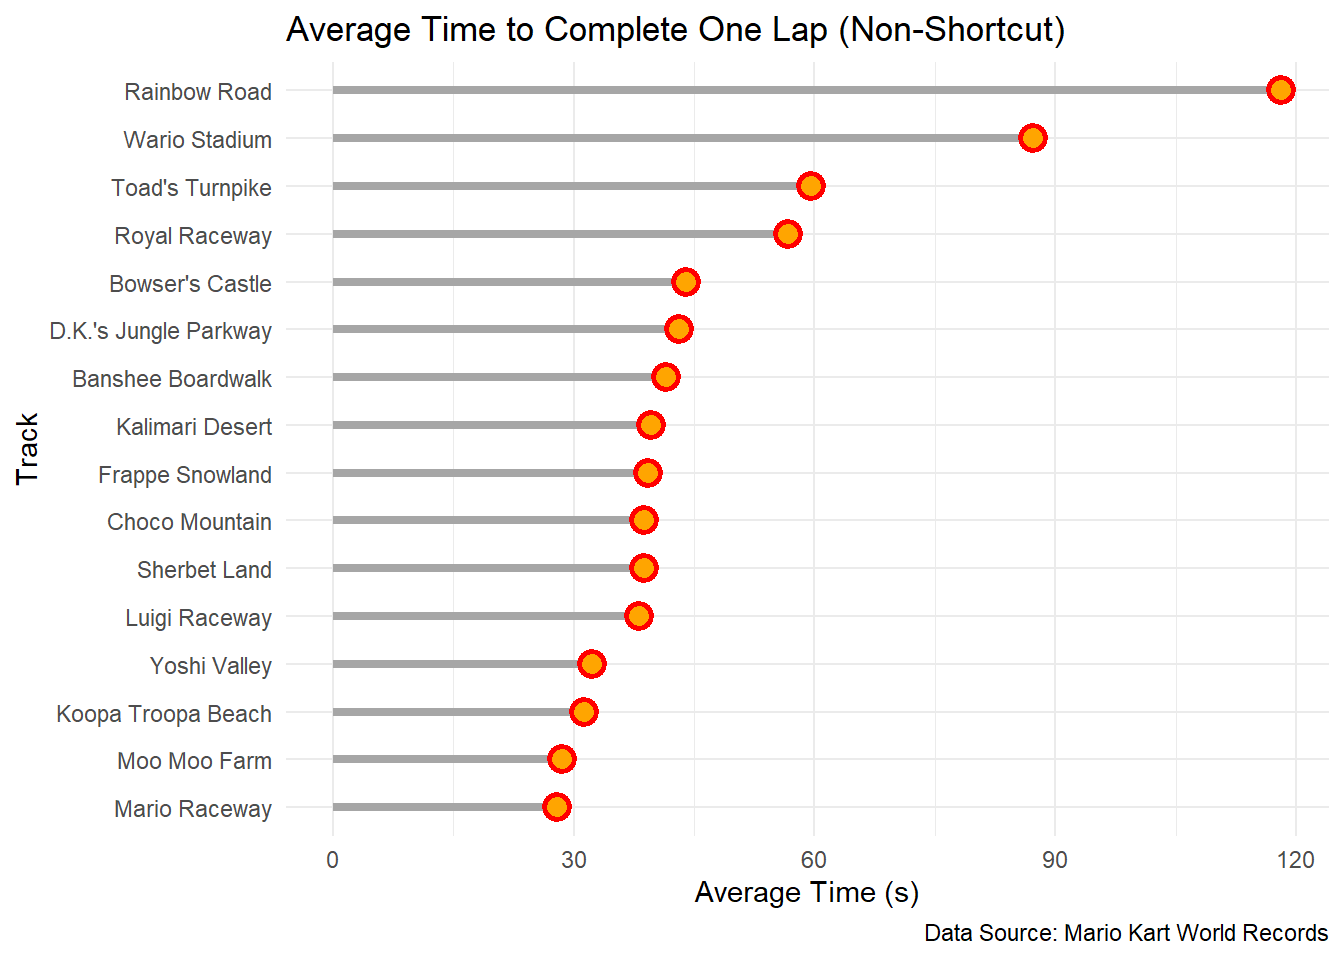
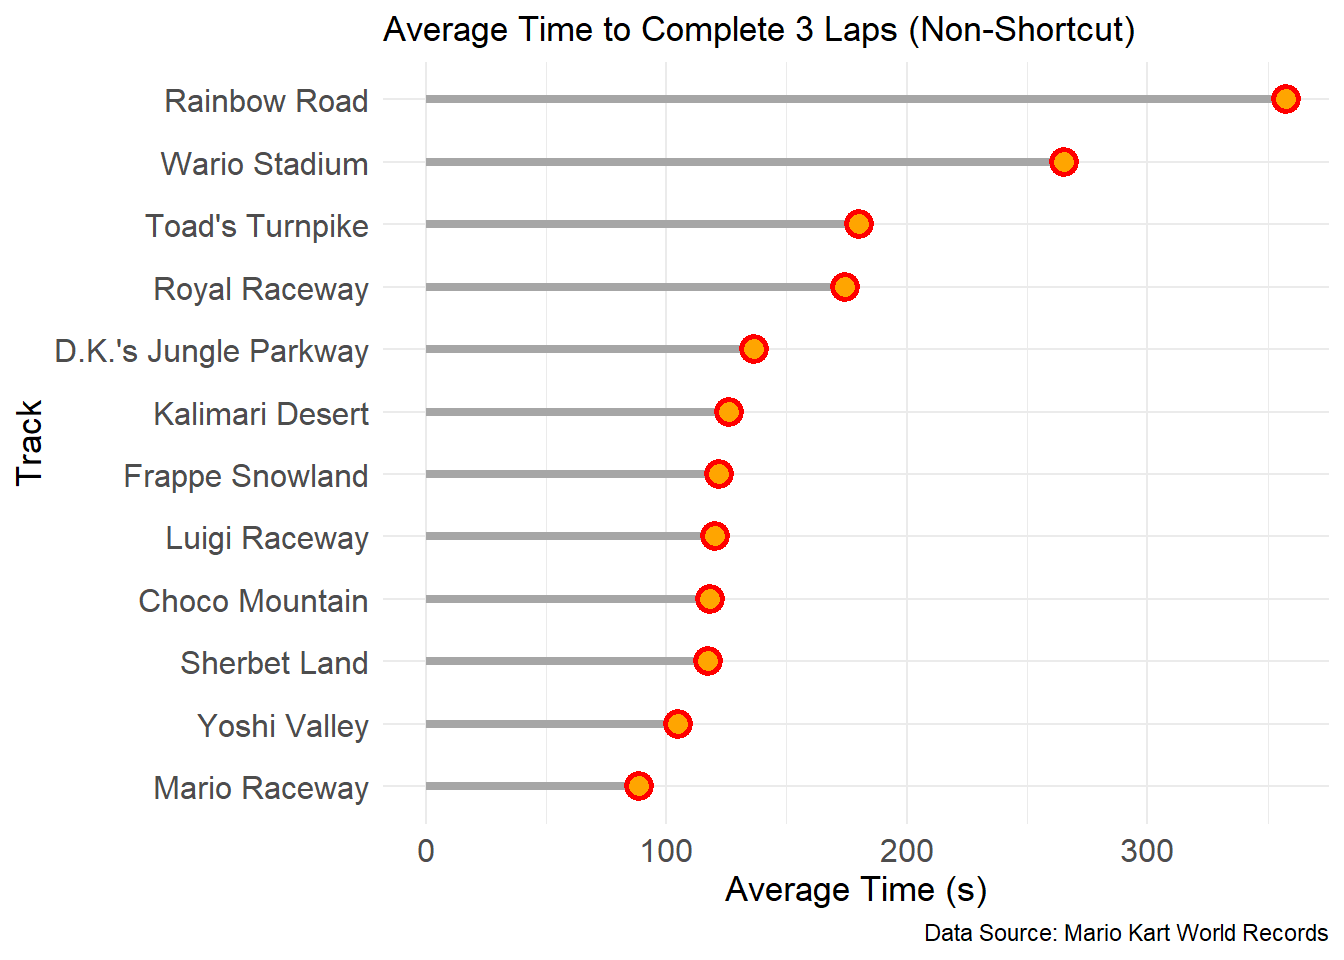
final updates to blog

diff --git a/docs/posts/mario_kart_blog/index.html b/docs/posts/mario_kart_blog/index.html
@@ -22,40 +22,6 @@ ul.task-list li input[type="checkbox"] {
   margin: 0 0.8em 0.2em -1em; /* quarto-specific, see https://github.com/quarto-dev/quarto-cli/issues/4556 */ 
   vertical-align: middle;
 }
-/* CSS for syntax highlighting */
-pre > code.sourceCode { white-space: pre; position: relative; }
-pre > code.sourceCode > span { display: inline-block; line-height: 1.25; }
-pre > code.sourceCode > span:empty { height: 1.2em; }
-.sourceCode { overflow: visible; }
-code.sourceCode > span { color: inherit; text-decoration: inherit; }
-div.sourceCode { margin: 1em 0; }
-pre.sourceCode { margin: 0; }
-@media screen {
-div.sourceCode { overflow: auto; }
-}
-@media print {
-pre > code.sourceCode { white-space: pre-wrap; }
-pre > code.sourceCode > span { text-indent: -5em; padding-left: 5em; }
-}
-pre.numberSource code
-  { counter-reset: source-line 0; }
-pre.numberSource code > span
-  { position: relative; left: -4em; counter-increment: source-line; }
-pre.numberSource code > span > a:first-child::before
-  { content: counter(source-line);
-    position: relative; left: -1em; text-align: right; vertical-align: baseline;
-    border: none; display: inline-block;
-    -webkit-touch-callout: none; -webkit-user-select: none;
-    -khtml-user-select: none; -moz-user-select: none;
-    -ms-user-select: none; user-select: none;
-    padding: 0 4px; width: 4em;
-  }
-pre.numberSource { margin-left: 3em;  padding-left: 4px; }
-div.sourceCode
-  {   }
-@media screen {
-pre > code.sourceCode > span > a:first-child::before { text-decoration: underline; }
-}
 </style>
 
 
@@ -182,78 +148,51 @@ pre > code.sourceCode > span > a:first-child::before { text-decoration: underlin
 
 
 <p><img src="mario.jpg" class="img-fluid"></p>
-<section id="introduction" class="level2">
-<h2 class="anchored" data-anchor-id="introduction">Introduction</h2>
-<p>what data set are you working with?</p>
-<p>what variables are you most interested in?</p>
-<p>How many observations are in your data set? - 2334 overall</p>
-<p>what is your question of interest?</p>
-<p>Which track is the fastest?</p>
-<p>How did the world records develop over time? <em>Which track is the fastest?</em> For which track did the world record improve the most? <em>For how many tracks have shortcuts been discovered?</em> - 12 out of 16 tracks have shortcuts When were shortcuts discovered? <em>On which track does the shortcut save the most time?</em> Which is the longest standing world record? Who is the player with the most world records? Who are recent players?</p>
-<p>where did you get the data from? (If possible, give a link to the data source).</p>
-<p>Mario Kart World Records</p>
-<p>github</p>
-<p>what other pieces of context are important to explain to the reader?</p>
+<p>Have you ever played the classic Mario Kart game and wondered to yourself during a race, “Should I risk the shortcut?” Well, if you have, I’ve got some answers for you! And you don’t have to only take my word for it- we will be looking at results from the top players in the world, earning records in <em>Mario Kart 64</em> since 1997.</p>
+<p>From personal experience, if you are not an expert Mario Kart player, taking the shortcut can lead to some disadvantages in the heat of a race. If you fall off the track while turning for the shortcut, precious time can be lost while you are dragged back on the the original track. If you hit an object trying to turn on the shortcut, you might have to back up and turn back around, which can also put you behind in a race. For these reasons, it would be beneficial to look at which tracks I should really master the shortcut, and which tracks it would be better to just stay in my lane.</p>
+<section id="a-look-at-the-data" class="level2">
+<h2 class="anchored" data-anchor-id="a-look-at-the-data">A Look at the Data</h2>
+<p>The data included in this analysis comes from <a href="https://mkwrs.com/">Mario Kart World Records</a> and contains records from players using the Nintendo 64 video game console. The variables that can be found in this data set are listed below.</p>
+<ul>
+<li><p><strong>track</strong>: Track name</p></li>
+<li><p><strong>type</strong>: Single or three lap record</p></li>
+<li><p><strong>shortcut</strong>: Shortcut or non-shortcut record</p></li>
+<li><p><strong>player</strong>: Player’s name</p></li>
+<li><p><strong>system_played</strong>: Used system (NTSC or PAL)</p></li>
+<li><p><strong>data</strong>: World record date</p></li>
+<li><p><strong>time_period</strong>: Time (hours/min/s)</p></li>
+<li><p><strong>time</strong>: Time in seconds</p></li>
+<li><p><strong>record_duration</strong>: Record duration in days</p></li>
+</ul>
+<p>We are primarily interested in investigating the length of time it takes to complete tracks with and without their shortcuts, therefore we will be focusing on the track, shortcut, and time variables included above. This data set originally contains 2,334 observations from various players. However, we will not be using all of these cases. Out of the 16 tracks included in this original data, four of the tracks do not include shortcuts (For those who know Mario Kart tracks, these include <em>Bowser’s Castle</em>, <em>Banshee Boardwalk</em>, <em>Koopa Troopa Beach</em>, and <em>Moo Moo Farm</em>). Since we are interested in which tracks will save us the most time by taking that shortcut, we will exclude these tracks from our analysis. We will also only be considering the recorded times of three laps races (the typical amount of laps in a tournament race) instead of a single lap to simplify our discussion.</p>
 </section>
-<section id="primary-visualizations" class="level2">
-<h2 class="anchored" data-anchor-id="primary-visualizations">Primary Visualizations</h2>
-<p>choose an appropriate visualization, eliminate clutter, and focus attention as appropriate to answer your question of interest.</p>
-<p>provide a written interpretation of each visualization you have, explaining what a reader should “take away” from each visualization.</p>
+<section id="visual-analysis" class="level2">
+<h2 class="anchored" data-anchor-id="visual-analysis">Visual Analysis</h2>
+<p>To help understand the general time it takes to race around each track, we will take a look at how long it takes players to complete three laps without using any shortcuts.</p>
 <div class="cell">
 <div class="cell-output-display">
 <p><img src="index_files/figure-html/CHUNK 3-1.png" class="img-fluid" width="672"></p>
 </div>
 </div>
-<div class="cell">
-<div class="sourceCode cell-code" id="cb1"><pre class="sourceCode r code-with-copy"><code class="sourceCode r"><span id="cb1-1"><a href="#cb1-1" aria-hidden="true" tabindex="-1"></a>records <span class="sc">|&gt;</span> </span>
-<span id="cb1-2"><a href="#cb1-2" aria-hidden="true" tabindex="-1"></a><span class="co">#  filter(shortcut == "Yes") |&gt;</span></span>
-<span id="cb1-3"><a href="#cb1-3" aria-hidden="true" tabindex="-1"></a>  <span class="fu">group_by</span>(track) <span class="sc">|&gt;</span></span>
-<span id="cb1-4"><a href="#cb1-4" aria-hidden="true" tabindex="-1"></a>  <span class="fu">summarise</span>(<span class="fu">n</span>())</span></code><button title="Copy to Clipboard" class="code-copy-button"><i class="bi"></i></button></pre></div>
-<div class="cell-output cell-output-stdout">
-<pre><code># A tibble: 16 × 2
-   track                 `n()`
-   &lt;chr&gt;                 &lt;int&gt;
- 1 Banshee Boardwalk        83
- 2 Bowser's Castle          69
- 3 Choco Mountain          148
- 4 D.K.'s Jungle Parkway   180
- 5 Frappe Snowland         180
- 6 Kalimari Desert         169
- 7 Koopa Troopa Beach       89
- 8 Luigi Raceway           147
- 9 Mario Raceway           160
-10 Moo Moo Farm             81
-11 Rainbow Road            179
-12 Royal Raceway           149
-13 Sherbet Land            143
-14 Toad's Turnpike         196
-15 Wario Stadium           201
-16 Yoshi Valley            160</code></pre>
-</div>
-</div>
+<p>The graph above demonstrates the average time in seconds it takes to complete three laps around each track without using the shortcut. From this we can tell that <em>Rainbow Road</em> appears to be the longest race, taking around 358 seconds, or 6 minutes and 15 seconds, to complete, followed by <em>Wario Stadium</em> at around 256 seconds, or 4 minutes and 16 seconds. The track with the fastest time is <em>Mario Raceway</em>, with a shorter time of 89 seconds on average (1 minute and 29 seconds). <em>Yoshi Valley</em> follows this track with an average time of 105 seconds, or 1 minute and 45 seconds. It is important to note that standard error for each time above was very small, and therefore was excluded from the plot.</p>
+<p>Now we can begin to examine how much time we can actually save by taking a shortcut. The figure below uses values taken from the difference in seconds between racing without the shortcut and racing with the shortcut. These time differences have been plotted for each track.</p>
 <div class="cell">
 <div class="cell-output-display">
-<p><img src="index_files/figure-html/CHUNK 5-1.png" class="img-fluid" width="672"></p>
+<p><img src="index_files/figure-html/CHUNK 4-1.png" class="img-fluid" width="672"></p>
 </div>
 </div>
-<div class="cell">
-<div class="sourceCode cell-code" id="cb3"><pre class="sourceCode r code-with-copy"><code class="sourceCode r"><span id="cb3-1"><a href="#cb3-1" aria-hidden="true" tabindex="-1"></a>records <span class="sc">|&gt;</span> </span>
-<span id="cb3-2"><a href="#cb3-2" aria-hidden="true" tabindex="-1"></a>  <span class="fu">filter</span>(track <span class="sc">==</span> <span class="st">"Wario Stadium"</span>, time <span class="sc">&lt;</span> <span class="dv">50</span>) <span class="sc">|&gt;</span> </span>
-<span id="cb3-3"><a href="#cb3-3" aria-hidden="true" tabindex="-1"></a>  <span class="fu">ggplot</span>(<span class="fu">aes</span>(<span class="at">x =</span> date, <span class="at">y =</span> time, <span class="at">color =</span> shortcut)) <span class="sc">+</span></span>
-<span id="cb3-4"><a href="#cb3-4" aria-hidden="true" tabindex="-1"></a>  <span class="fu">geom_point</span>()</span></code><button title="Copy to Clipboard" class="code-copy-button"><i class="bi"></i></button></pre></div>
-<div class="cell-output-display">
-<p><img src="index_files/figure-html/unnamed-chunk-2-1.png" class="img-fluid" width="672"></p>
-</div>
-</div>
+<p>It appears that the amount of time saved by taking a shortcut is the most while racing in <em>Wario Stadium</em>, saving on average around 243 seconds of time during the entire race. On <em>Rainbow Road</em>, around 142 seconds have been saved from taking the shortcut. From this, it sounds like taking the shortcut on these tracks would be worth all the risk. On the other hand, taking the shortcut on the <em>Kalimari Desert</em> track appears to only save around 2 seconds of time, so it may be wiser to ignore this shortcut and stay on the main track.</p>
 </section>
-<section id="conclusion-and-wrap-up" class="level2">
-<h2 class="anchored" data-anchor-id="conclusion-and-wrap-up">Conclusion and Wrap-Up</h2>
-<p>are there any flaws with your approach to analyzing the data you’ve selected?</p>
-<p>are there future directions you would go if you had additional data or more time?</p>
+<section id="conclusion" class="level2">
+<h2 class="anchored" data-anchor-id="conclusion">Conclusion</h2>
+<p>Overall, its obvious which shortcuts have saved the best players the most time over the years, but it is important to note some flaws in this analytical approach. The charts in the previous section take the average time over all records achieved from 1997 to 2021, therefore average time shown may not be clearly representative of the exact time it takes for one individual to complete a race. Regardless of this fact, we can still learn which track shortcuts have saved the pros the most time over the years.</p>
+<p>In the future, it would be interesting to dive into a bit of history surrounding <em>Mario Kart 64</em>, and look into when these shortcuts were each discovered. With the data used in this investigation, it would also be interesting to look at specific players who remained undefeated for the longest amount of time. Another research avenue I would be interested in exploring is within other versions of the game, such as the popular <em>Mario Kart 8 Deluxe</em> played on the Nintendo Switch.</p>
+<p>In conclusion, whether you are practicing to set the new world record, or just practicing to beat your friends, I would advise to spend some time practicing the shortcuts in <em>Wario Stadium</em> and <em>Rainbow Road</em>, and less time in the <em>Kalimari Desert</em>.</p>
+<p>Good Luck!</p>
 </section>
 <section id="connection-to-class-ideas" class="level2">
 <h2 class="anchored" data-anchor-id="connection-to-class-ideas">Connection to Class Ideas</h2>
-<p>At the end of your write-up, you should connect your visualization(s) to ideas from class. In what ways would you argue your visualization(s) are effective ways of communicating information?</p>
+<p>For the visualizations included in this blog, I used a limited color scale that is clear and would not confuse readers. I also kept the graphs neat and limited clutter by keeping the background and theme minimal. I enlarged the font of the track and axis titles to make the labels easier to read, and I also arranged the tracks in descending order so that viewers could make quick and accurate judgments about the data being presented.</p>
 
 
 </section>

diff --git a/docs/index.html b/docs/index.html
@@ -170,7 +170,7 @@ ul.task-list li input[type="checkbox"] {
 
 <div class="quarto-listing quarto-listing-container-default" id="listing-listing">
 <div class="list quarto-listing-default">
-<div class="quarto-post image-right" data-index="0" data-categories="Gaming,Blog" data-listing-date-sort="1706677200000" data-listing-file-modified-sort="1707448496571" data-listing-date-modified-sort="NaN" data-listing-reading-time-sort="4">
+<div class="quarto-post image-right" data-index="0" data-categories="Gaming,Blog" data-listing-date-sort="1706677200000" data-listing-file-modified-sort="1707503960954" data-listing-date-modified-sort="NaN" data-listing-reading-time-sort="8">
 <div class="thumbnail">
 <p><a href="./posts/mario_kart_blog/index.html"> <img src="./posts/mario_kart_blog/mario64.jpg" class="thumbnail-image"> </a></p>
 </div>
@@ -193,7 +193,7 @@ Blog
 </div>
 <a href="./posts/mario_kart_blog/index.html">
 <div class="listing-description">
-what data set are you working with?
+Have you ever played the classic Mario Kart game and wondered to yourself during a race, “Should I risk the shortcut?” Well…<em></em>
 </div>
 </a>
 </div>
@@ -208,7 +208,7 @@ Hailey Quintavalle
 </a>
 </div>
 </div>
-<div class="quarto-post image-right" data-index="1" data-categories="Welcome" data-listing-date-sort="1706418000000" data-listing-file-modified-sort="1707448475458" data-listing-date-modified-sort="NaN" data-listing-reading-time-sort="1">
+<div class="quarto-post image-right" data-index="1" data-categories="Welcome" data-listing-date-sort="1706418000000" data-listing-file-modified-sort="1707449512644" data-listing-date-modified-sort="NaN" data-listing-reading-time-sort="1">
 <div class="thumbnail">
 <p><a href="./posts/welcome/index.html"> <p class="card-img-top"><img src="posts\welcome\thumbnail.jpg"  class="thumbnail-image card-img"/></p> </a></p>
 </div>
@@ -238,7 +238,7 @@ This is the first post in a Quarto blog. Welcome!
 Jan 28, 2024
 </div>
 <div class="listing-author">
-Tristan O’Malley
+Hailey Quintavalle
 </div>
 </a>
 </div>
